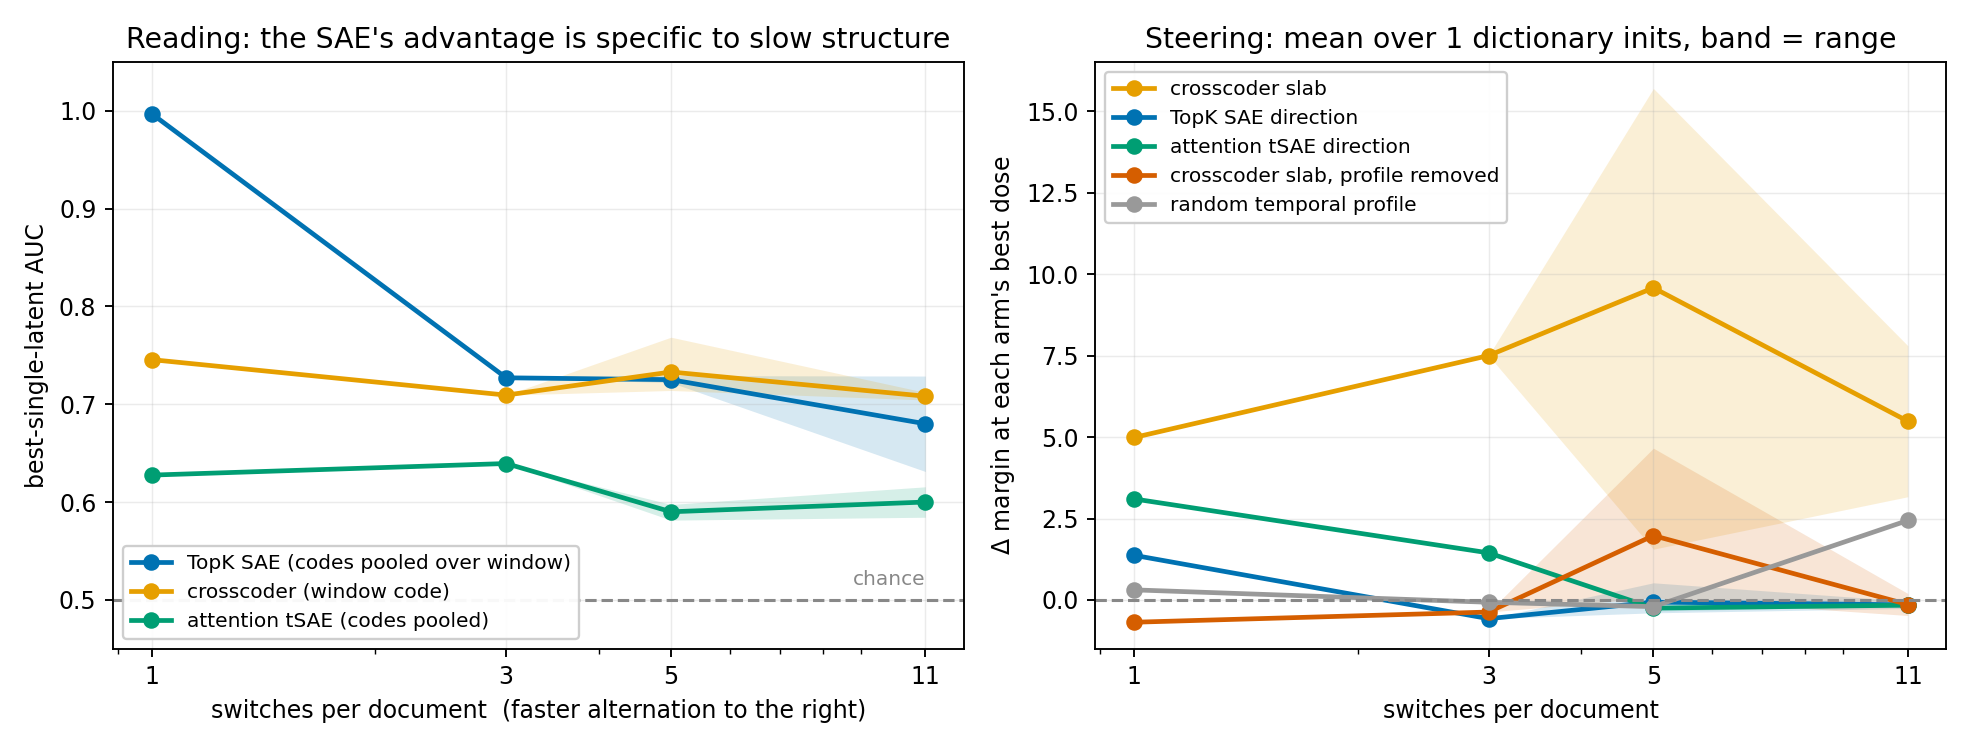
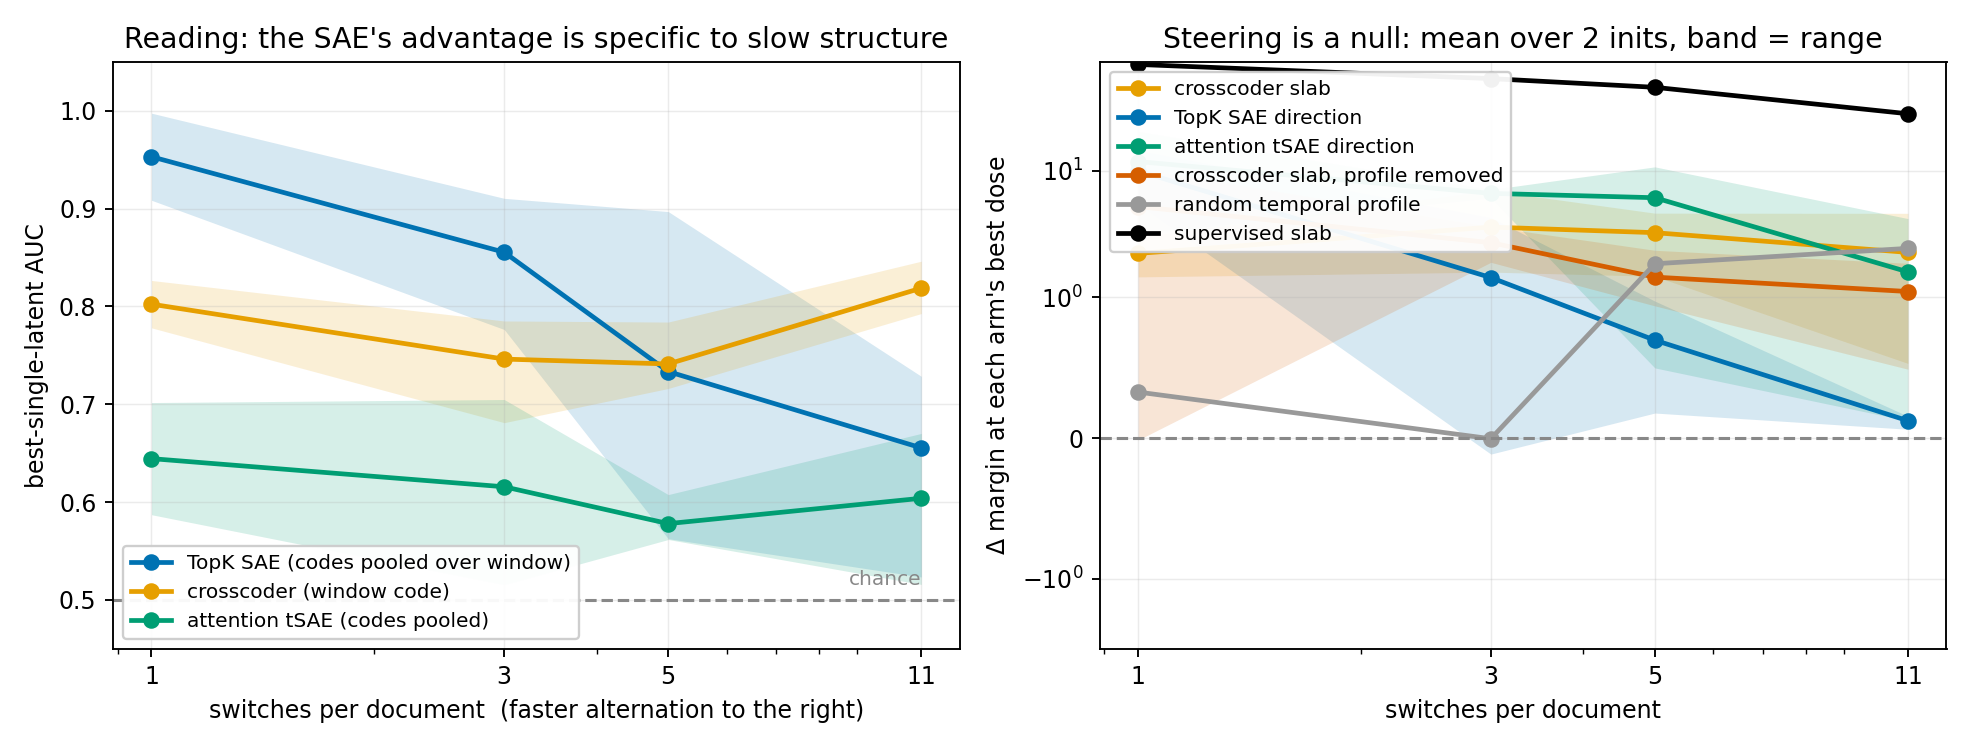
txcwins: ladder figure rebuilt on symmetric doses -- steering panel is a null
The earlier version, swept over positive doses only at lr 3e-4, showed the
crosscoder winning three of four cells. Withdrawn. The reading crossover is the
part that survives and it holds in all three inits.

Claude-Session: https://claude.ai/code/session_019TBT3ZW4RMH7Sir9Ng6aap

diff --git a/scripts/plot_phase_ladder.py b/scripts/plot_phase_ladder.py
@@ -12,12 +12,19 @@ sprint. By eleven switches the ordering has reversed. A causal transformer smear
 into every token, which is how a pooled per-token code recovers order at all; that smearing
 cannot resolve alternation at period two.
 
-Right: what each architecture can STEER, at matched injected norm and matched realised
-coefficients per segment. The crosscoder's slab is the only arm that is positive across the
-ladder. `txc_flat` -- the same slab time-averaged and rebroadcast, same latent, same norm,
-profile removed -- is the control that makes this a claim about the temporal profile.
+Right: what each architecture can STEER, and it is a NULL. Once the dose is swept
+symmetrically about zero -- so that every arm gets both directions, rather than being locked
+to the sign its reading AUC implies -- and once the learning rate is corrected to the value
+that actually trains the crosscoder, no dictionary reliably wins anywhere on this ladder. The
+SAE's constant write beats the crosscoder outright at one switch, the crosscoder wins by
+small margins at eleven, and which way a cell falls changes with dictionary init. Every
+learned arm is an order of magnitude below the supervised slab.
 
-Reads results/txc_wins/phase{1,3,5,11}.json.
+An earlier version of this figure, swept over positive doses only, showed the crosscoder
+winning three of the four cells. That result did not survive its own methodology fix and is
+withdrawn.
+
+Reads results/txc_wins/phase{1,3,5,11}_v2_ds{0,1,2}.json.
 """
 import json
 import pathlib
@@ -45,13 +52,14 @@ def best(arm):
 def load_seeds(s):
     """Every dictionary init available for this cell.
 
-    Init matters more than it has any right to: at five switches the crosscoder's best
-    delta ranged over 1.56, 15.70 and 11.48 across three inits of the same configuration.
-    The sign was stable in every one, the magnitude was not, so a single init is not a
-    verdict and the figure shows the spread rather than one draw.
+    Init matters more than it has any right to, and it is the reason the steering panel is
+    read as a null rather than as a small win: at eleven switches the crosscoder's best delta
+    ranged over 0.53, 1.66 and 4.61 across three inits of an otherwise identical
+    configuration, and at one switch the SAE beat it 14.52 to 1.45 in one init and 5.42 to
+    3.00 in another. A single init is not a verdict, so the figure shows the range.
     """
     out = [json.loads(p.read_text())
-           for p in sorted(SRC.glob(f"phase{s}_final_ds*.json"))]
+           for p in sorted(SRC.glob(f"phase{s}_v2_ds*.json"))]
     if out:
         return out
     # Fall back to the pre-recipe-fix runs if the final matrix has not landed.
@@ -100,7 +108,8 @@ def main() -> int:
                                ("sae_broadcast", C_SAE, "TopK SAE direction"),
                                ("tsae_broadcast", C_TSAE, "attention tSAE direction"),
                                ("txc_flat", C_FLAT, "crosscoder slab, profile removed"),
-                               ("random_slab", C_RND, "random temporal profile")):
+                               ("random_slab", C_RND, "random temporal profile"),
+                               ("dom_slab", "#000000", "supervised slab")):
         xs, ys, lo, hi = [], [], [], []
         for s in SWITCHES:
             vals = [best(r["arms"][key])[0] for r in seeds[s] if key in r["arms"]]
@@ -118,7 +127,8 @@ def main() -> int:
     ax.set_xlabel("switches per document")
     ax.set_ylabel(r"$\Delta$ margin at each arm's best dose")
     n_seed = min(len(seeds[s]) for s in SWITCHES)
-    ax.set_title(f"Steering: mean over {n_seed} dictionary inits, band = range")
+    ax.set_yscale("symlog", linthresh=1.0)
+    ax.set_title(f"Steering is a null: mean over {n_seed} inits, band = range")
     ax.grid(alpha=0.25, lw=0.6)
     ax.legend(loc="upper left", fontsize=8.5, framealpha=0.95)
 
